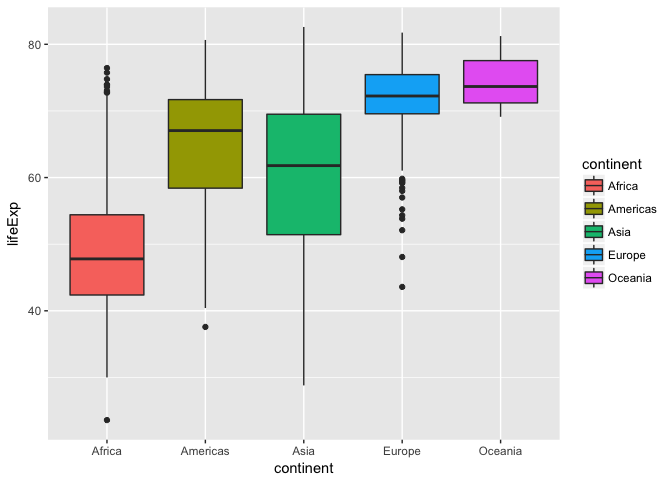
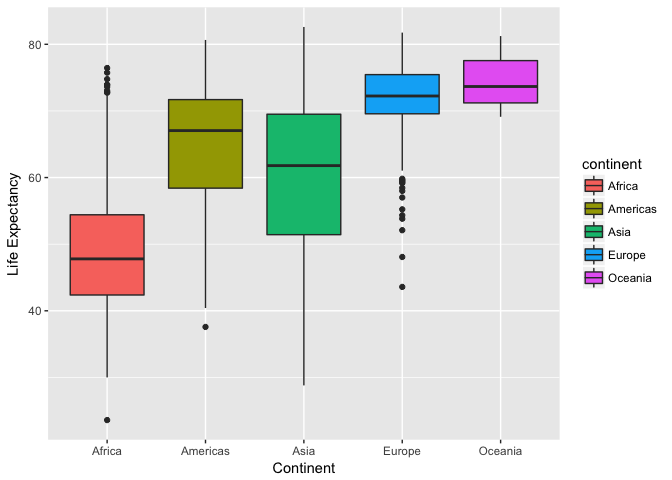
More testing on upward linking

diff --git a/hw2/Gapminder_Exploration.md b/hw2/Gapminder_Exploration.md
@@ -3,7 +3,7 @@ Gapminder Exploration
 
 ### Abstract
 
-[Back to folder](..)
+[*Back to folder*](../)
 
 We are going to explore the gapminder data set included with R. We will start with importing the data set, and analyzing what data types the data consists of. Then, we will do some basic visual analisis of the data set using ggplot.
 
@@ -165,28 +165,32 @@ That makes more sense. Note that doing the same for the other 11 years, yields t
 ``` r
 gapminder %>% 
   ggplot(aes(x=continent, y=lifeExp)) +
-  geom_boxplot(aes(fill=continent))
+  geom_boxplot(aes(fill=continent)) +
+  xlab('Continent') + ylab('Life Expectancy')
 ```
 
 ![](Gapminder_Exploration_files/figure-markdown_github-ascii_identifiers/unnamed-chunk-7-1.png)
 
-We can even use box plots to study how the life expetcancy changes over the years
+As one can see, the life expectancy data from each continent seems to be very different. In general, Europe and Oceania have higher life expectancies, while Africa and Asia has lower. The variance of the data is also higher when the median is lower. However, the higher variance probably has a lot to with the number of countries in each continent. There could also be a lot of variance from year to year.
 
 ``` r
 gapminder %>% 
   ggplot(aes(x=factor(year), y=lifeExp)) +
   facet_grid(~continent) +
-  geom_boxplot(aes(fill=continent)) + 
+  geom_boxplot(aes(fill=continent)) +
+  xlab('Continent') + ylab('Life Expectancy') + 
   theme(axis.text.x = element_text(angle = 90, hjust = 1))
 ```
 
 ![](Gapminder_Exploration_files/figure-markdown_github-ascii_identifiers/unnamed-chunk-8-1.png)
 
+There is a lot of movement in the life expectancies for the different continents. In general, the trend is that it's increasing, but it also seems to flatten out when it reaches 70 years.
+
 ### 2.2 Life Expectancy
 
 [*Back to the top*](#abstract)
 
-We will now take a look at the life expecancy variable specifically. As seen, the life expecancy is of type decimal number. We can have see basic properties of the life expectancy data by using summary after selecting the lifeExp variable.
+We will now take a look at the life expecancy variable specifically. As seen, the life expecancy is of type decimal number. We can see basic properties of the life expectancy data by using summary after selecting the lifeExp variable.
 
 ``` r
 gapminder %>% 
